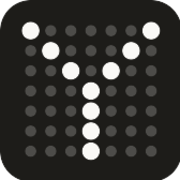
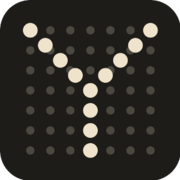
Make the gold Tang look the default and tighten the page
Rebuild the particle masks from the blue-free Tang paintings, add a brain
resilience stage to the hero film, lighten the gold, rewrite the vision and
section copy, add gerophysics as a research direction, drop the lifespan
chart and the Work list that repeated the hero and publications, and redraw
the dot-matrix logo with even spacing.

diff --git a/index.html b/index.html
@@ -14,7 +14,7 @@
 <link rel="canonical" href="https://lab.kejunying.com/">
 <meta name="theme-color" content="#0a53a3">
 <link rel="icon" href="assets/favicon.svg" type="image/svg+xml">
-<link rel="stylesheet" href="styles.css?v=20261014r">
+<link rel="stylesheet" href="styles.css?v=20261014t">
 <script>document.documentElement.classList.add('js');(function(){var a=new URLSearchParams(location.search).get('art');if(a!=='uk')document.documentElement.setAttribute('data-art','tang');})();</script>
 </head>
 <body>
@@ -23,14 +23,13 @@
 <header class="nav" id="nav">
   <div class="wrap nav-row">
     <a class="mark" href="#top" aria-label="Ying Lab, home">
-      <svg viewBox="0 0 48 48" width="26" height="26" aria-hidden="true"><circle cx="6.0" cy="6.0" r="2.25" fill="currentColor"/><circle cx="12.0" cy="6.0" r="1.40" fill="currentColor" opacity="0.16"/><circle cx="18.0" cy="6.0" r="1.40" fill="currentColor" opacity="0.16"/><circle cx="24.0" cy="6.0" r="1.40" fill="currentColor" opacity="0.16"/><circle cx="30.0" cy="6.0" r="1.40" fill="currentColor" opacity="0.16"/><circle cx="36.0" cy="6.0" r="1.40" fill="currentColor" opacity="0.16"/><circle cx="42.0" cy="6.0" r="2.25" fill="currentColor"/><circle cx="6.0" cy="12.0" r="1.40" fill="currentColor" opacity="0.16"/><circle cx="12.0" cy="12.0" r="2.25" fill="currentColor"/><circle cx="18.0" cy="12.0" r="1.40" fill="currentColor" opacity="0.16"/><circle cx="24.0" cy="12.0" r="1.40" fill="currentColor" opacity="0.16"/><circle cx="30.0" cy="12.0" r="1.40" fill="currentColor" opacity="0.16"/><circle cx="36.0" cy="12.0" r="2.25" fill="currentColor"/><circle cx="42.0" cy="12.0" r="1.40" fill="currentColor" opacity="0.16"/><circle cx="6.0" cy="18.0" r="1.40" fill="currentColor" opacity="0.16"/><circle cx="12.0" cy="18.0" r="1.40" fill="currentColor" opacity="0.16"/><circle cx="18.0" cy="18.0" r="2.25" fill="currentColor"/><circle cx="24.0" cy="18.0" r="1.40" fill="currentColor" opacity="0.16"/><circle cx="30.0" cy="18.0" r="2.25" fill="currentColor"/><circle cx="36.0" cy="18.0" r="1.40" fill="currentColor" opacity="0.16"/><circle cx="42.0" cy="18.0" r="1.40" fill="currentColor" opacity="0.16"/><circle cx="6.0" cy="24.0" r="1.40" fill="currentColor" opacity="0.16"/><circle cx="12.0" cy="24.0" r="1.40" fill="currentColor" opacity="0.16"/><circle cx="18.0" cy="24.0" r="1.40" fill="currentColor" opacity="0.16"/><circle cx="24.0" cy="24.0" r="2.25" fill="currentColor"/><circle cx="30.0" cy="24.0" r="1.40" fill="currentColor" opacity="0.16"/><circle cx="36.0" cy="24.0" r="1.40" fill="currentColor" opacity="0.16"/><circle cx="42.0" cy="24.0" r="1.40" fill="currentColor" opacity="0.16"/><circle cx="6.0" cy="30.0" r="1.40" fill="currentColor" opacity="0.16"/><circle cx="12.0" cy="30.0" r="1.40" fill="currentColor" opacity="0.16"/><circle cx="18.0" cy="30.0" r="1.40" fill="currentColor" opacity="0.16"/><circle cx="24.0" cy="30.0" r="2.25" fill="currentColor"/><circle cx="30.0" cy="30.0" r="1.40" fill="currentColor" opacity="0.16"/><circle cx="36.0" cy="30.0" r="1.40" fill="currentColor" opacity="0.16"/><circle cx="42.0" cy="30.0" r="1.40" fill="currentColor" opacity="0.16"/><circle cx="6.0" cy="36.0" r="1.40" fill="currentColor" opacity="0.16"/><circle cx="12.0" cy="36.0" r="1.40" fill="currentColor" opacity="0.16"/><circle cx="18.0" cy="36.0" r="1.40" fill="currentColor" opacity="0.16"/><circle cx="24.0" cy="36.0" r="2.25" fill="currentColor"/><circle cx="30.0" cy="36.0" r="1.40" fill="currentColor" opacity="0.16"/><circle cx="36.0" cy="36.0" r="1.40" fill="currentColor" opacity="0.16"/><circle cx="42.0" cy="36.0" r="1.40" fill="currentColor" opacity="0.16"/><circle cx="6.0" cy="42.0" r="1.40" fill="currentColor" opacity="0.16"/><circle cx="12.0" cy="42.0" r="1.40" fill="currentColor" opacity="0.16"/><circle cx="18.0" cy="42.0" r="1.40" fill="currentColor" opacity="0.16"/><circle cx="24.0" cy="42.0" r="2.25" fill="currentColor"/><circle cx="30.0" cy="42.0" r="1.40" fill="currentColor" opacity="0.16"/><circle cx="36.0" cy="42.0" r="1.40" fill="currentColor" opacity="0.16"/><circle cx="42.0" cy="42.0" r="1.40" fill="currentColor" opacity="0.16"/></svg>
+      <svg viewBox="0 0 48 48" width="26" height="26" aria-hidden="true"><circle cx="6" cy="6" r="1.2" fill="currentColor" opacity="0.18"/><circle cx="6" cy="12" r="1.2" fill="currentColor" opacity="0.18"/><circle cx="6" cy="18" r="1.2" fill="currentColor" opacity="0.18"/><circle cx="6" cy="24" r="1.2" fill="currentColor" opacity="0.18"/><circle cx="6" cy="30" r="1.2" fill="currentColor" opacity="0.18"/><circle cx="6" cy="36" r="1.2" fill="currentColor" opacity="0.18"/><circle cx="6" cy="42" r="1.2" fill="currentColor" opacity="0.18"/><circle cx="12" cy="6" r="1.2" fill="currentColor" opacity="0.18"/><circle cx="12" cy="12" r="1.2" fill="currentColor" opacity="0.18"/><circle cx="12" cy="18" r="1.2" fill="currentColor" opacity="0.18"/><circle cx="12" cy="24" r="1.2" fill="currentColor" opacity="0.18"/><circle cx="12" cy="30" r="1.2" fill="currentColor" opacity="0.18"/><circle cx="12" cy="36" r="1.2" fill="currentColor" opacity="0.18"/><circle cx="12" cy="42" r="1.2" fill="currentColor" opacity="0.18"/><circle cx="18" cy="6" r="1.2" fill="currentColor" opacity="0.18"/><circle cx="18" cy="12" r="1.2" fill="currentColor" opacity="0.18"/><circle cx="18" cy="18" r="1.2" fill="currentColor" opacity="0.18"/><circle cx="18" cy="24" r="1.2" fill="currentColor" opacity="0.18"/><circle cx="18" cy="30" r="1.2" fill="currentColor" opacity="0.18"/><circle cx="18" cy="36" r="1.2" fill="currentColor" opacity="0.18"/><circle cx="18" cy="42" r="1.2" fill="currentColor" opacity="0.18"/><circle cx="24" cy="6" r="1.2" fill="currentColor" opacity="0.18"/><circle cx="24" cy="12" r="1.2" fill="currentColor" opacity="0.18"/><circle cx="24" cy="18" r="1.2" fill="currentColor" opacity="0.18"/><circle cx="24" cy="24" r="1.2" fill="currentColor" opacity="0.18"/><circle cx="24" cy="30" r="1.2" fill="currentColor" opacity="0.18"/><circle cx="24" cy="36" r="1.2" fill="currentColor" opacity="0.18"/><circle cx="24" cy="42" r="1.2" fill="currentColor" opacity="0.18"/><circle cx="30" cy="6" r="1.2" fill="currentColor" opacity="0.18"/><circle cx="30" cy="12" r="1.2" fill="currentColor" opacity="0.18"/><circle cx="30" cy="18" r="1.2" fill="currentColor" opacity="0.18"/><circle cx="30" cy="24" r="1.2" fill="currentColor" opacity="0.18"/><circle cx="30" cy="30" r="1.2" fill="currentColor" opacity="0.18"/><circle cx="30" cy="36" r="1.2" fill="currentColor" opacity="0.18"/><circle cx="30" cy="42" r="1.2" fill="currentColor" opacity="0.18"/><circle cx="36" cy="6" r="1.2" fill="currentColor" opacity="0.18"/><circle cx="36" cy="12" r="1.2" fill="currentColor" opacity="0.18"/><circle cx="36" cy="18" r="1.2" fill="currentColor" opacity="0.18"/><circle cx="36" cy="24" r="1.2" fill="currentColor" opacity="0.18"/><circle cx="36" cy="30" r="1.2" fill="currentColor" opacity="0.18"/><circle cx="36" cy="36" r="1.2" fill="currentColor" opacity="0.18"/><circle cx="36" cy="42" r="1.2" fill="currentColor" opacity="0.18"/><circle cx="42" cy="6" r="1.2" fill="currentColor" opacity="0.18"/><circle cx="42" cy="12" r="1.2" fill="currentColor" opacity="0.18"/><circle cx="42" cy="18" r="1.2" fill="currentColor" opacity="0.18"/><circle cx="42" cy="24" r="1.2" fill="currentColor" opacity="0.18"/><circle cx="42" cy="30" r="1.2" fill="currentColor" opacity="0.18"/><circle cx="42" cy="36" r="1.2" fill="currentColor" opacity="0.18"/><circle cx="42" cy="42" r="1.2" fill="currentColor" opacity="0.18"/><circle cx="6.00" cy="6.00" r="2.15" fill="currentColor"/><circle cx="10.50" cy="10.50" r="2.15" fill="currentColor"/><circle cx="15.00" cy="15.00" r="2.15" fill="currentColor"/><circle cx="19.50" cy="19.50" r="2.15" fill="currentColor"/><circle cx="24.00" cy="24.00" r="2.15" fill="currentColor"/><circle cx="42.00" cy="6.00" r="2.15" fill="currentColor"/><circle cx="37.50" cy="10.50" r="2.15" fill="currentColor"/><circle cx="33.00" cy="15.00" r="2.15" fill="currentColor"/><circle cx="28.50" cy="19.50" r="2.15" fill="currentColor"/><circle cx="24.00" cy="30.00" r="2.15" fill="currentColor"/><circle cx="24.00" cy="36.00" r="2.15" fill="currentColor"/><circle cx="24.00" cy="42.00" r="2.15" fill="currentColor"/></svg>
       <span>Ying Lab</span>
     </a>
     <nav aria-label="Sections">
       <a href="#research">Research</a>
       <a href="#brain">Brain</a>
       <a href="#agents">Agents</a>
-      <a href="#work">Work</a>
       <a href="#publications">Publications</a>
       <a href="#people">People</a>
       <a class="nav-join btn" href="#join">Join <span aria-hidden="true">&rarr;</span></a>
@@ -62,23 +61,14 @@
 </section>
 
 <section class="band" id="mission">
-  <div class="wrap">
-    <p class="label">Maximum lifespan, years</p>
-    <figure class="axis" id="axis" aria-labelledby="axis-cap">
-      <div class="axis-plot" id="axis-plot" role="img" aria-label="Maximum recorded lifespan on a logarithmic scale: house mouse 4 years, naked mole-rat 31 years, human 122 years, bowhead whale 211 years, Greenland shark 392 years. A dashed line continues from the human record to ten times that value."><noscript><p>House mouse 4 years, naked mole-rat 31 years, human 122 years, bowhead whale 211 years, Greenland shark 392 years.</p></noscript></div>
-      <figcaption id="axis-cap">Maximum recorded lifespan, on a logarithmic scale. Values from the <a href="https://genomics.senescence.info/species/" rel="noopener">AnAge database</a>, rounded to whole years; the bowhead whale and Greenland shark values are estimates. Species are not drawn to scale.</figcaption>
-    </figure>
-  </div>
   <div class="wrap two">
-    <h2>Evolution has already changed lifespan by more than an order of magnitude</h2>
+    <h2>Our vision</h2>
     <div class="prose">
-      <p>Across mammals, lifespan ranges from a few years to more than two centuries. Differences this large may depend on mechanisms that current interventions, which change lifespan by a small fraction, do not act on.</p>
-      <p>Our long-term mission is to extend human lifespan by an order of magnitude and to identify the biology required. We learn from lifespan variation across species, model it, and turn what the models find into drug targets and designed proteins that can be tested in human cells.</p>
-      <p>The lab is experimental as well as computational. A model can propose an intervention, but only measurements and experiments show whether it works. However capable AI systems become, they will still need those data, so we generate them ourselves.</p>
+      <p>We want to understand aging well enough to extend healthy human lifespan by an order of magnitude.</p>
+      <p>Evolution has already done more than that. A mouse lives 4 years and a bowhead whale more than 200. Current interventions change lifespan by a small fraction, so the mechanisms behind the larger differences are probably ones they do not reach.</p>
+      <p>We also ask what aging is. Gerophysics treats the organism as a physical system that keeps itself stable, and aging as the loss of that stability; the theory tells the models what to look for.</p>
+      <p>The lab is computational and experimental. Models and agents propose interventions, experiments decide, and the results train the next model.</p>
     </div>
-  </div>
-  <div class="wrap">
-    <p class="statement">If we study only how to add a little time, we may miss the mechanisms that could add much more.</p>
   </div>
 </section>
 
@@ -86,8 +76,7 @@
   <div class="wrap two">
     <h2>AI for biology, across scales</h2>
     <div class="prose">
-      <p>Biology can be modeled at every scale, from a single molecule to a whole species. Most of the attention in AI for biology goes to the smallest scales: protein structure and virtual cells.</p>
-      <p>Aging shows itself at the level of the whole organism: in disease, in death and in the lifespan of a species. Few AI models are built at the scale of the whole human or the species. We think this is the open opportunity for AI in aging research, and much of our modeling starts there.</p>
+      <p>Most AI for biology works at the smallest scales, on protein structure and virtual cells. Aging shows itself in the whole organism: in disease, in death and in the lifespan of a species. We model every scale, and much of our work starts at the human and the species, where few models exist.</p>
     </div>
   </div>
   <div class="wrap">
@@ -109,9 +98,9 @@
     <div>
       <h2>Brain resilience</h2>
       <div class="prose">
-        <p>Aging is the largest risk factor for Alzheimer's and Parkinson's disease. Yet some people keep their memory and thinking into old age even when their brains carry the pathology of these diseases or a high-risk genetic variant. We want to know what protects them.</p>
-        <p>We expect the species that live longest to have the most resilient brains. A bowhead whale can live more than two centuries and a Greenland shark an estimated four, and a naked mole-rat lives decades longer than a rodent of its size. We compare their brains with human brains to find the protective molecules and cell states that human brains could borrow.</p>
-        <p>We model how each person's brain ages from molecular profiles of brain tissue, blood and cerebrospinal fluid. Resilience is then a measurable quantity: how far a person's course departs from the one expected from their age, pathology and genetic risk. The molecules and cell states that account for that difference become targets for the interventions the lab designs.</p>
+        <p>Aging is the largest risk factor for Alzheimer's and Parkinson's disease, yet some people keep their memory into old age even when their brains carry the pathology. We want to know what protects them.</p>
+        <p>We expect the longest-lived species to have the most resilient brains. A bowhead whale can live more than two centuries, a Greenland shark an estimated four, and a naked mole-rat decades longer than a rodent of its size. We compare their brains with human brains to find protective molecules and cell states.</p>
+        <p>In humans, we model brain aging from molecular profiles of brain tissue, blood and cerebrospinal fluid. Resilience becomes measurable: how far a person's course departs from the one expected from their age, pathology and genetic risk. What explains that difference becomes a target.</p>
       </div>
     </div>
   </div>
@@ -122,8 +111,8 @@
     <div>
       <h2>AI agents that read data and papers</h2>
       <div class="prose">
-        <p>Public repositories hold millions of molecular profiles, and the literature holds millions of papers. Most datasets were analyzed only for the question of the study that produced them. Our agents read the data and the papers together, run the analyses and propose what to test, assembling the story that thousands of separate studies tell about aging.</p>
-        <p>Each claim keeps a record of the dataset, code and paper behind it. In ClockBase Agent, agents reanalyzed public molecular profiles with aging clocks and nominated interventions predicted to lower biological age; one of them, ouabain, reduced frailty when tested in aged mice.</p>
+        <p>Public repositories hold millions of molecular profiles and the literature millions of papers, most analyzed only for the question of the study that produced them. Our agents read both, run the analyses and propose what to test, and every claim keeps a record of the data, code and paper behind it.</p>
+        <p>In ClockBase Agent, agents reanalyzed public profiles with aging clocks and nominated interventions predicted to lower biological age. One of them, ouabain, reduced frailty in aged mice.</p>
       </div>
       <p class="links"><a href="https://www.biorxiv.org/content/10.1101/2023.02.28.530532v4" rel="noopener">ClockBase Agent preprint</a><a href="https://www.clockbase.org/" rel="noopener">ClockBase</a><a href="https://github.com/albert-ying/autonomous-lab" rel="noopener">Autonomous Lab</a></p>
     </div>
@@ -134,11 +123,23 @@
 <section class="research blue" id="research">
   <div class="wrap">
     <h2>Research</h2>
-    <p class="section-lede">Each project follows the same loop: measure a biological state, model it, let the model nominate an intervention, design the molecule, test it, and return the result to the model. The five areas below are where the first projects will start.</p>
+    <p class="section-lede">Every project runs one loop: measure a biological state, model it, let the model nominate an intervention, design the molecule, test it and feed the result back. The first projects start in six areas.</p>
   </div>
   <div class="wrap research-grid">
     <div class="loop" id="loop" aria-hidden="true"></div>
     <div class="directions" id="directions">
+      <article data-steps="model">
+        <span class="roundel"><img src="assets/img/uk-species.webp" width="520" height="520" loading="lazy" alt="Painting of long-lived species around a human."></span>
+        <div class="dir-body">
+        <h3>Gerophysics</h3>
+        <p>Aging from first principles. An organism holds its state stable through constant repair, and aging is the slow drift of that state towards the point where stability is lost.</p>
+        <ul>
+          <li>Loss of resilience: slower recovery and larger fluctuations with age</li>
+          <li>Scaling laws that link lifespan to body size, metabolism and repair across species</li>
+          <li>Mathematical models of aging checked against data from many species</li>
+        </ul>
+        </div>
+      </article>
       <article data-steps="model">
         <span class="roundel"><img src="assets/img/uk-cell.webp" width="520" height="520" loading="lazy" alt="Woodblock-style painting of a cell."></span>
         <div class="dir-body">
@@ -199,20 +200,12 @@
   <div class="wrap">
     <dl class="tenets">
       <div><dt>The model is the instrument</dt><dd>We test a hypothesis first in a pretrained model of biological state and take to the bench the predictions that hold up there.</dd></div>
-      <div><dt>Agents do the reading and the reanalysis</dt><dd>Public repositories hold millions of molecular profiles, most of them analyzed only for the question of the original study. Agents can reanalyze them with one measure, such as biological age, so results are comparable across studies.</dd></div>
       <div><dt>Results trace to their source</dt><dd>For each candidate we keep the source data, the code, the model output and the literature search that support it.</dd></div>
       <div><dt>The loop closes on experiments</dt><dd>A prediction about aging can be checked against physiological function and lifespan, and we hold every project to that test.</dd></div>
     </dl>
   </div>
 </section>
 
-<section class="work" id="work">
-  <div class="wrap">
-    <h2>Work so far</h2>
-    <p class="section-lede">Models, agents and software from Albert&rsquo;s doctoral and postdoctoral work. Each has a public preprint, paper or code.</p>
-    <div class="work-list" id="work-list"></div>
-  </div>
-</section>
 
 <section class="pubs" id="publications">
   <div class="wrap">
@@ -297,9 +290,9 @@
   </div>
   <button class="pd-close" type="button" aria-label="Close">&times;</button>
 </dialog>
-<script src="assets/species.js?v=20261014r"></script>
-<script src="data.js?v=20261014r"></script>
-<script src="main.js?v=20261014r"></script>
-<script src="film.js?v=20261014r"></script>
+<script src="assets/species.js?v=20261014t"></script>
+<script src="data.js?v=20261014t"></script>
+<script src="main.js?v=20261014t"></script>
+<script src="film.js?v=20261014t"></script>
 </body>
 </html>

diff --git a/main.js b/main.js
@@ -136,6 +136,7 @@
   var plot = document.getElementById('axis-plot');
   var lastMode = null, lastW = 0;
   function renderAxis() {
+    if (!plot) return;
     var W = Math.round(plot.clientWidth);
     if (!W) return;
     var mode = window.matchMedia('(max-width: 760px)').matches ? 'v' : 'h';
@@ -213,7 +214,7 @@
   }
 
   var workList = document.getElementById('work-list');
-  (window.LAB_WORK || []).forEach(function (w) {
+  (workList ? window.LAB_WORK || [] : []).forEach(function (w) {
     var item = h('article', 'work-item');
     item.appendChild(h('h3', null, w.name));
     item.appendChild(h('span', 'work-status', w.status));
@@ -299,7 +300,7 @@
         });
       });
     }, { rootMargin: '-45% 0px -50% 0px' });
-    ['top', 'mission', 'scales', 'brain', 'agents', 'research', 'work', 'publications', 'people', 'join'].forEach(function (id) {
+    ['top', 'mission', 'scales', 'brain', 'agents', 'research', 'publications', 'people', 'join'].forEach(function (id) {
       var s = document.getElementById(id);
       if (s) io.observe(s);
     });

diff --git a/film.js b/film.js
@@ -422,7 +422,7 @@
     for (var c6 = 0; c6 < 6; c6++) { if (cA[c6] < 0) continue; gl.enableVertexAttribArray(cA[c6]); gl.vertexAttribPointer(cA[c6], 4, gl.UNSIGNED_BYTE, true, 24, c6 * 4); }
     gl.bindBuffer(gl.ARRAY_BUFFER, nbuf); if (nA >= 0) { gl.enableVertexAttribArray(nA); gl.vertexAttribPointer(nA, 2, gl.FLOAT, false, 8, 0); }
     gl.uniform3f(PU.uNetCol, TANG ? 0.18 : 0.11, TANG ? 0.12 : 0.11, TANG ? 0.06 : 0.10);
-    gl.uniform2f(PU.uOffN, W * (wide ? 0.66 : 0.5), H * 0.52); gl.uniform1f(PU.uScN, H * (wide ? 0.5 : 0.38));
+    gl.uniform2f(PU.uOffN, W * (wide ? 0.66 : 0.5), H * (wide ? 0.52 : 0.66)); gl.uniform1f(PU.uScN, wide ? H * 0.5 : Math.min(H * 0.34, W * 0.5));
     gl.uniform2f(PU.uRes, W, H); gl.uniform2f(PU.uOff0, off0x, off0y); gl.uniform2f(PU.uOffC, offCx, offCy);
     gl.uniform2f(PU.uMouse, mouse.x, mouse.y);
     gl.uniform3f(PU.uFlight, 0.11, 0.11, 0.10);

diff --git a/DESIGN.md b/DESIGN.md
@@ -18,3 +18,13 @@ Reference: https://pear.no/ (named by Albert, 2026-10-12, "要有高级审美"; 
 | Logo | Upright small neural network whose output runs up a dotted line to an open circle | Albert, 2026-10-14: concept E "竖起来"; the mark should say AI as well as aging |
 
 Rejected directions: minimal white with hairlines ("I want fancier"); dark navy with glow, gradient text and glass ("这个coloring太烂大街"). No rust or terracotta (2026-09-17).
+
+## Tang gold (default since 2026-10-14)
+
+Albert, 2026-10-14: "之前说的唐朝style会更好一点，然后整个都换成这个金色", then asked for a slightly lighter gold.
+- Hero ground and gold sheets: #c0915b (the painted silk median #ab7337, lightened one step).
+- Reading sections: light silk #efe3cb. Ink #1d1c19.
+- Paintings: `yinglab-art/2026-10-14_tang3` (no blue, no green). Masks: `yinglab-art/make_tang_masks.py` (GrabCut seeded by outlines).
+- Hero stages: procession, brain among long-lived species, human, tissue, cell, molecule, network.
+- Woodblock version: `?art=uk`.
+- Logo: 7x7 dot lattice with an evenly spaced Y (dots every 6 units along each stroke).
